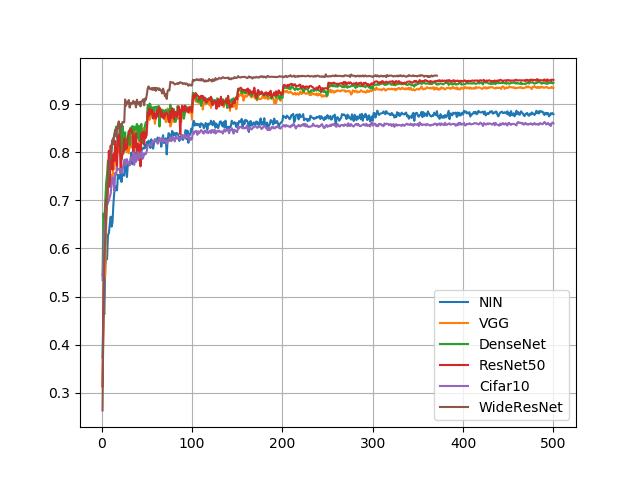
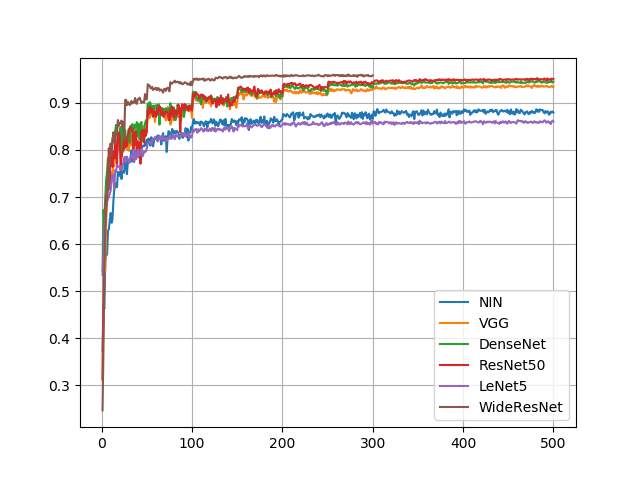
Update figure

diff --git a/collect_results.py b/collect_results.py
@@ -45,6 +45,8 @@ accuracies = {}
 for model_name, rows in rows.items():
     rows = sorted(rows, reverse=True)
     for acc, log, args, dname in rows:
+        if args['model_name'] == 'Cifar10':
+            args['model_name'] = 'LeNet5'
         if args['model_name'] in accuracies:
             if acc > accuracies[args['model_name']][-1, 1]:
                 accuracies[args['model_name']] = np.array([
